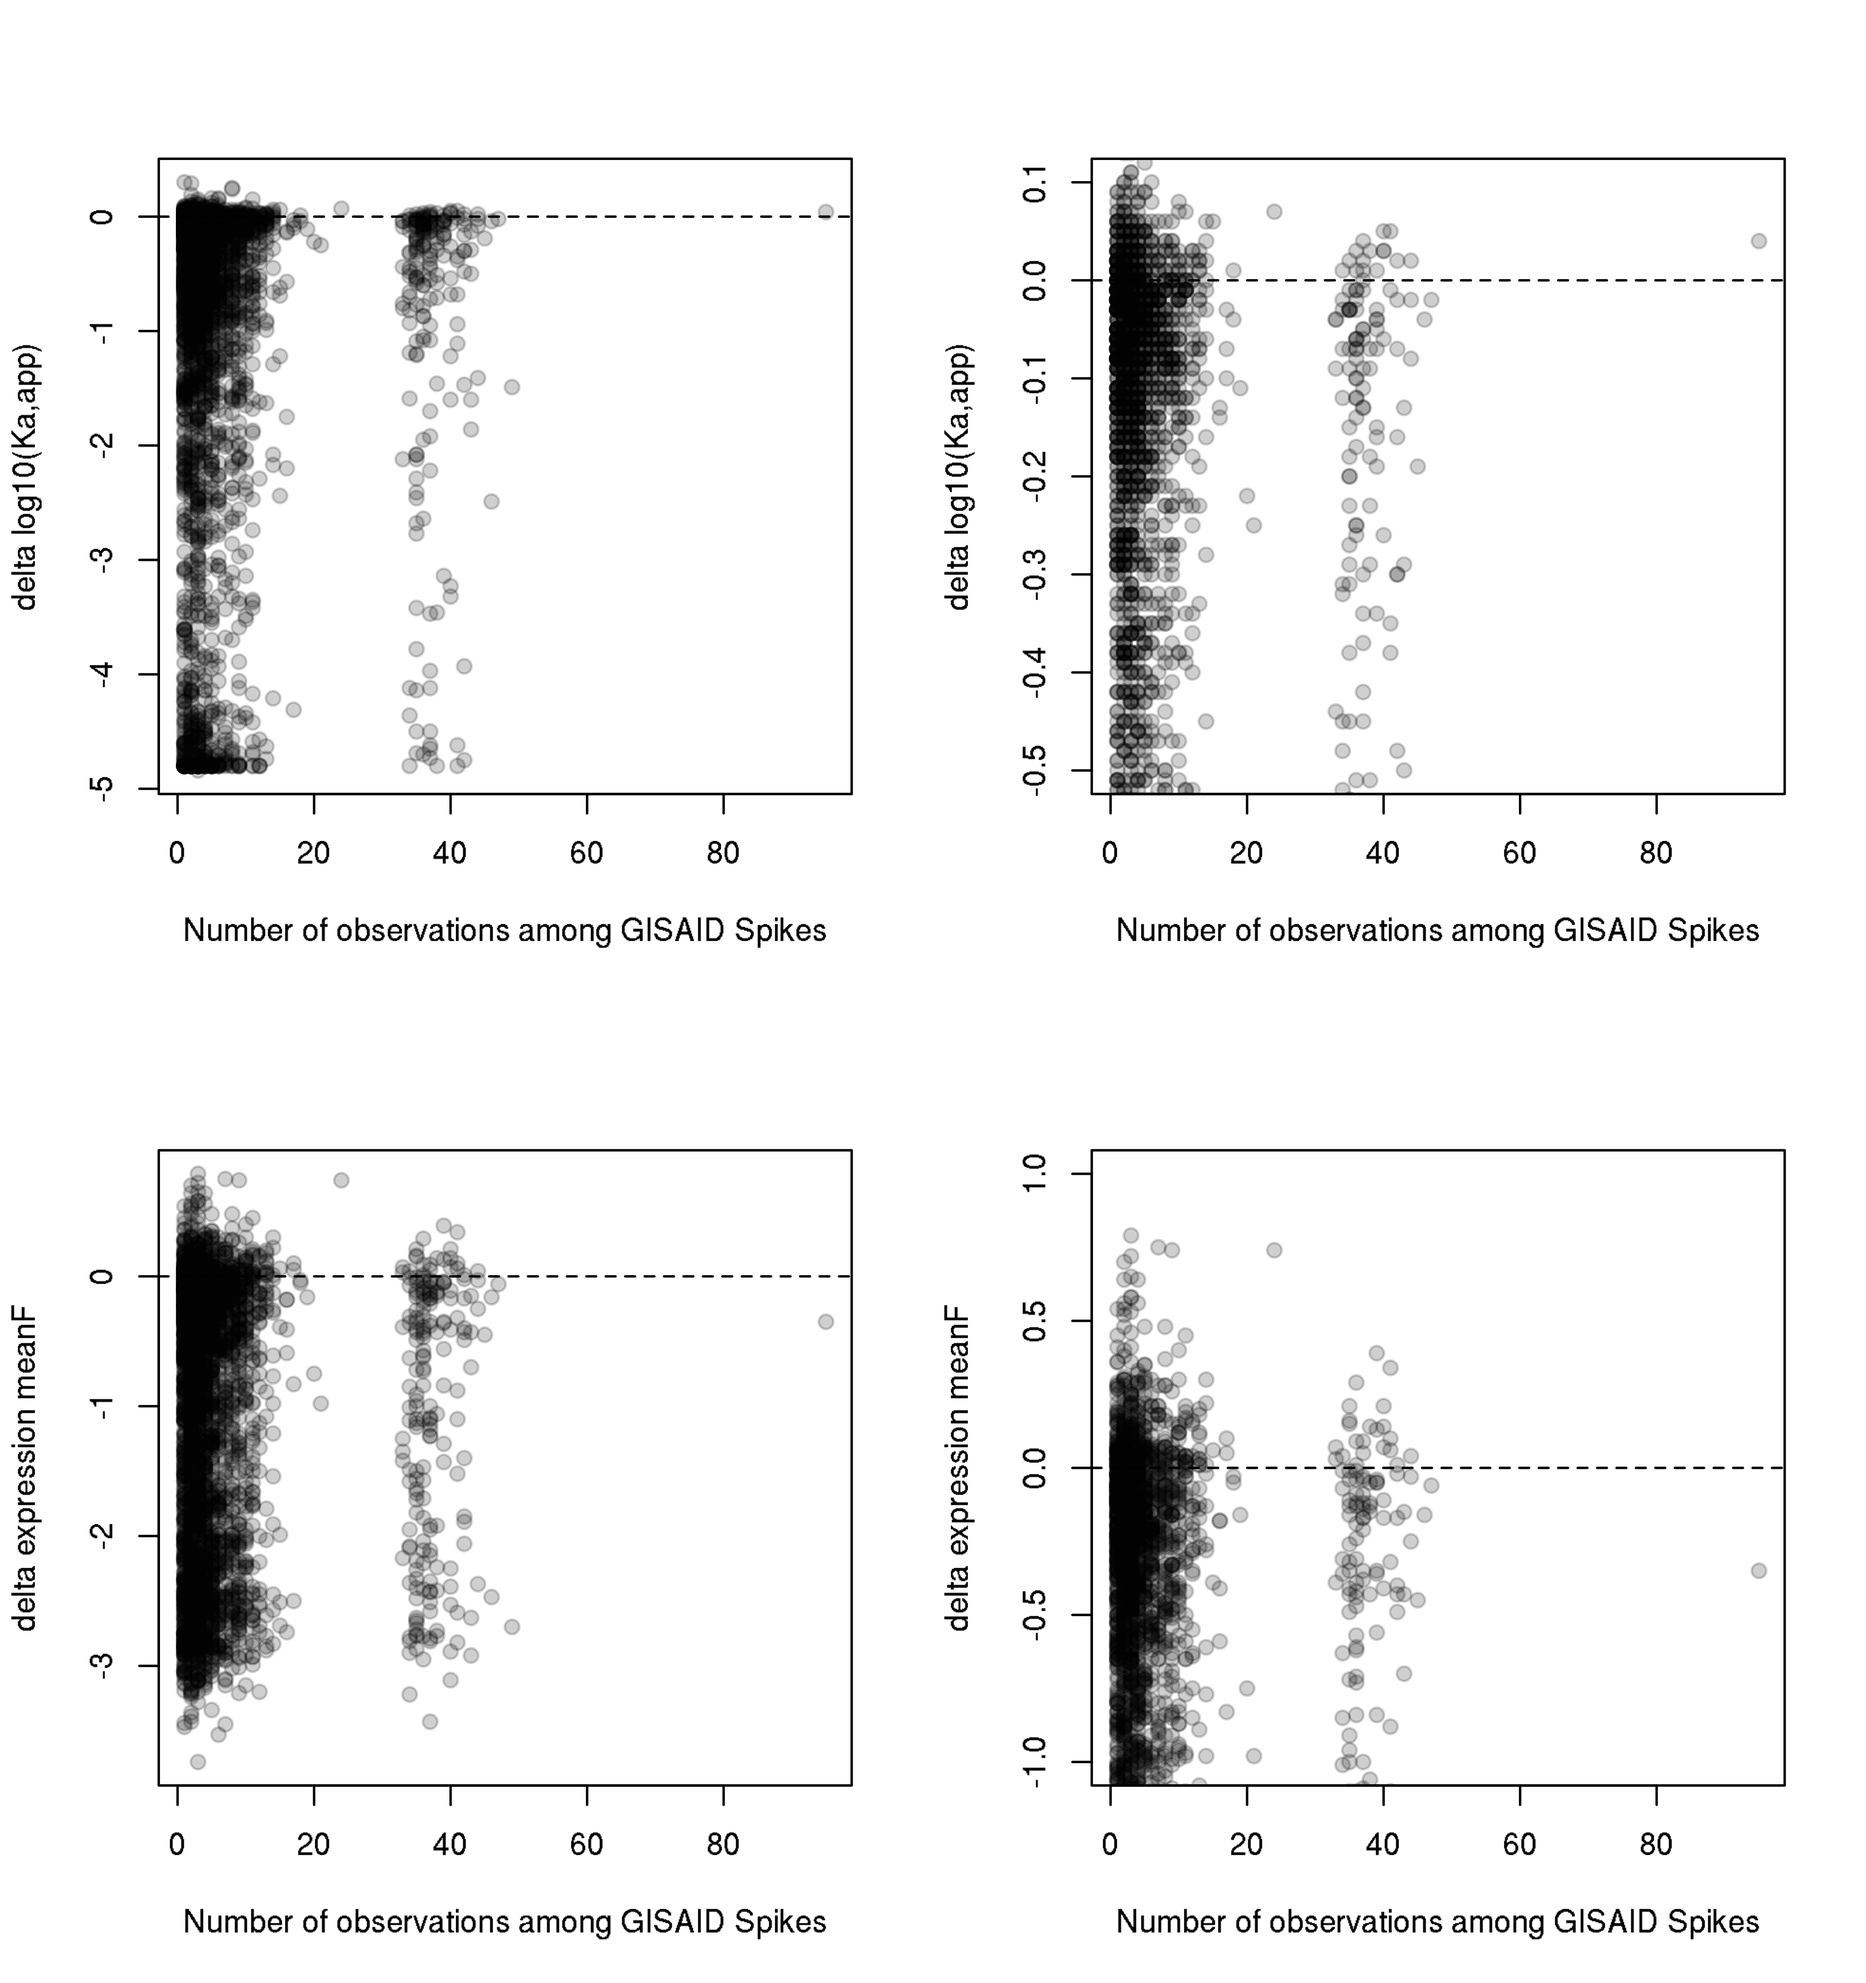
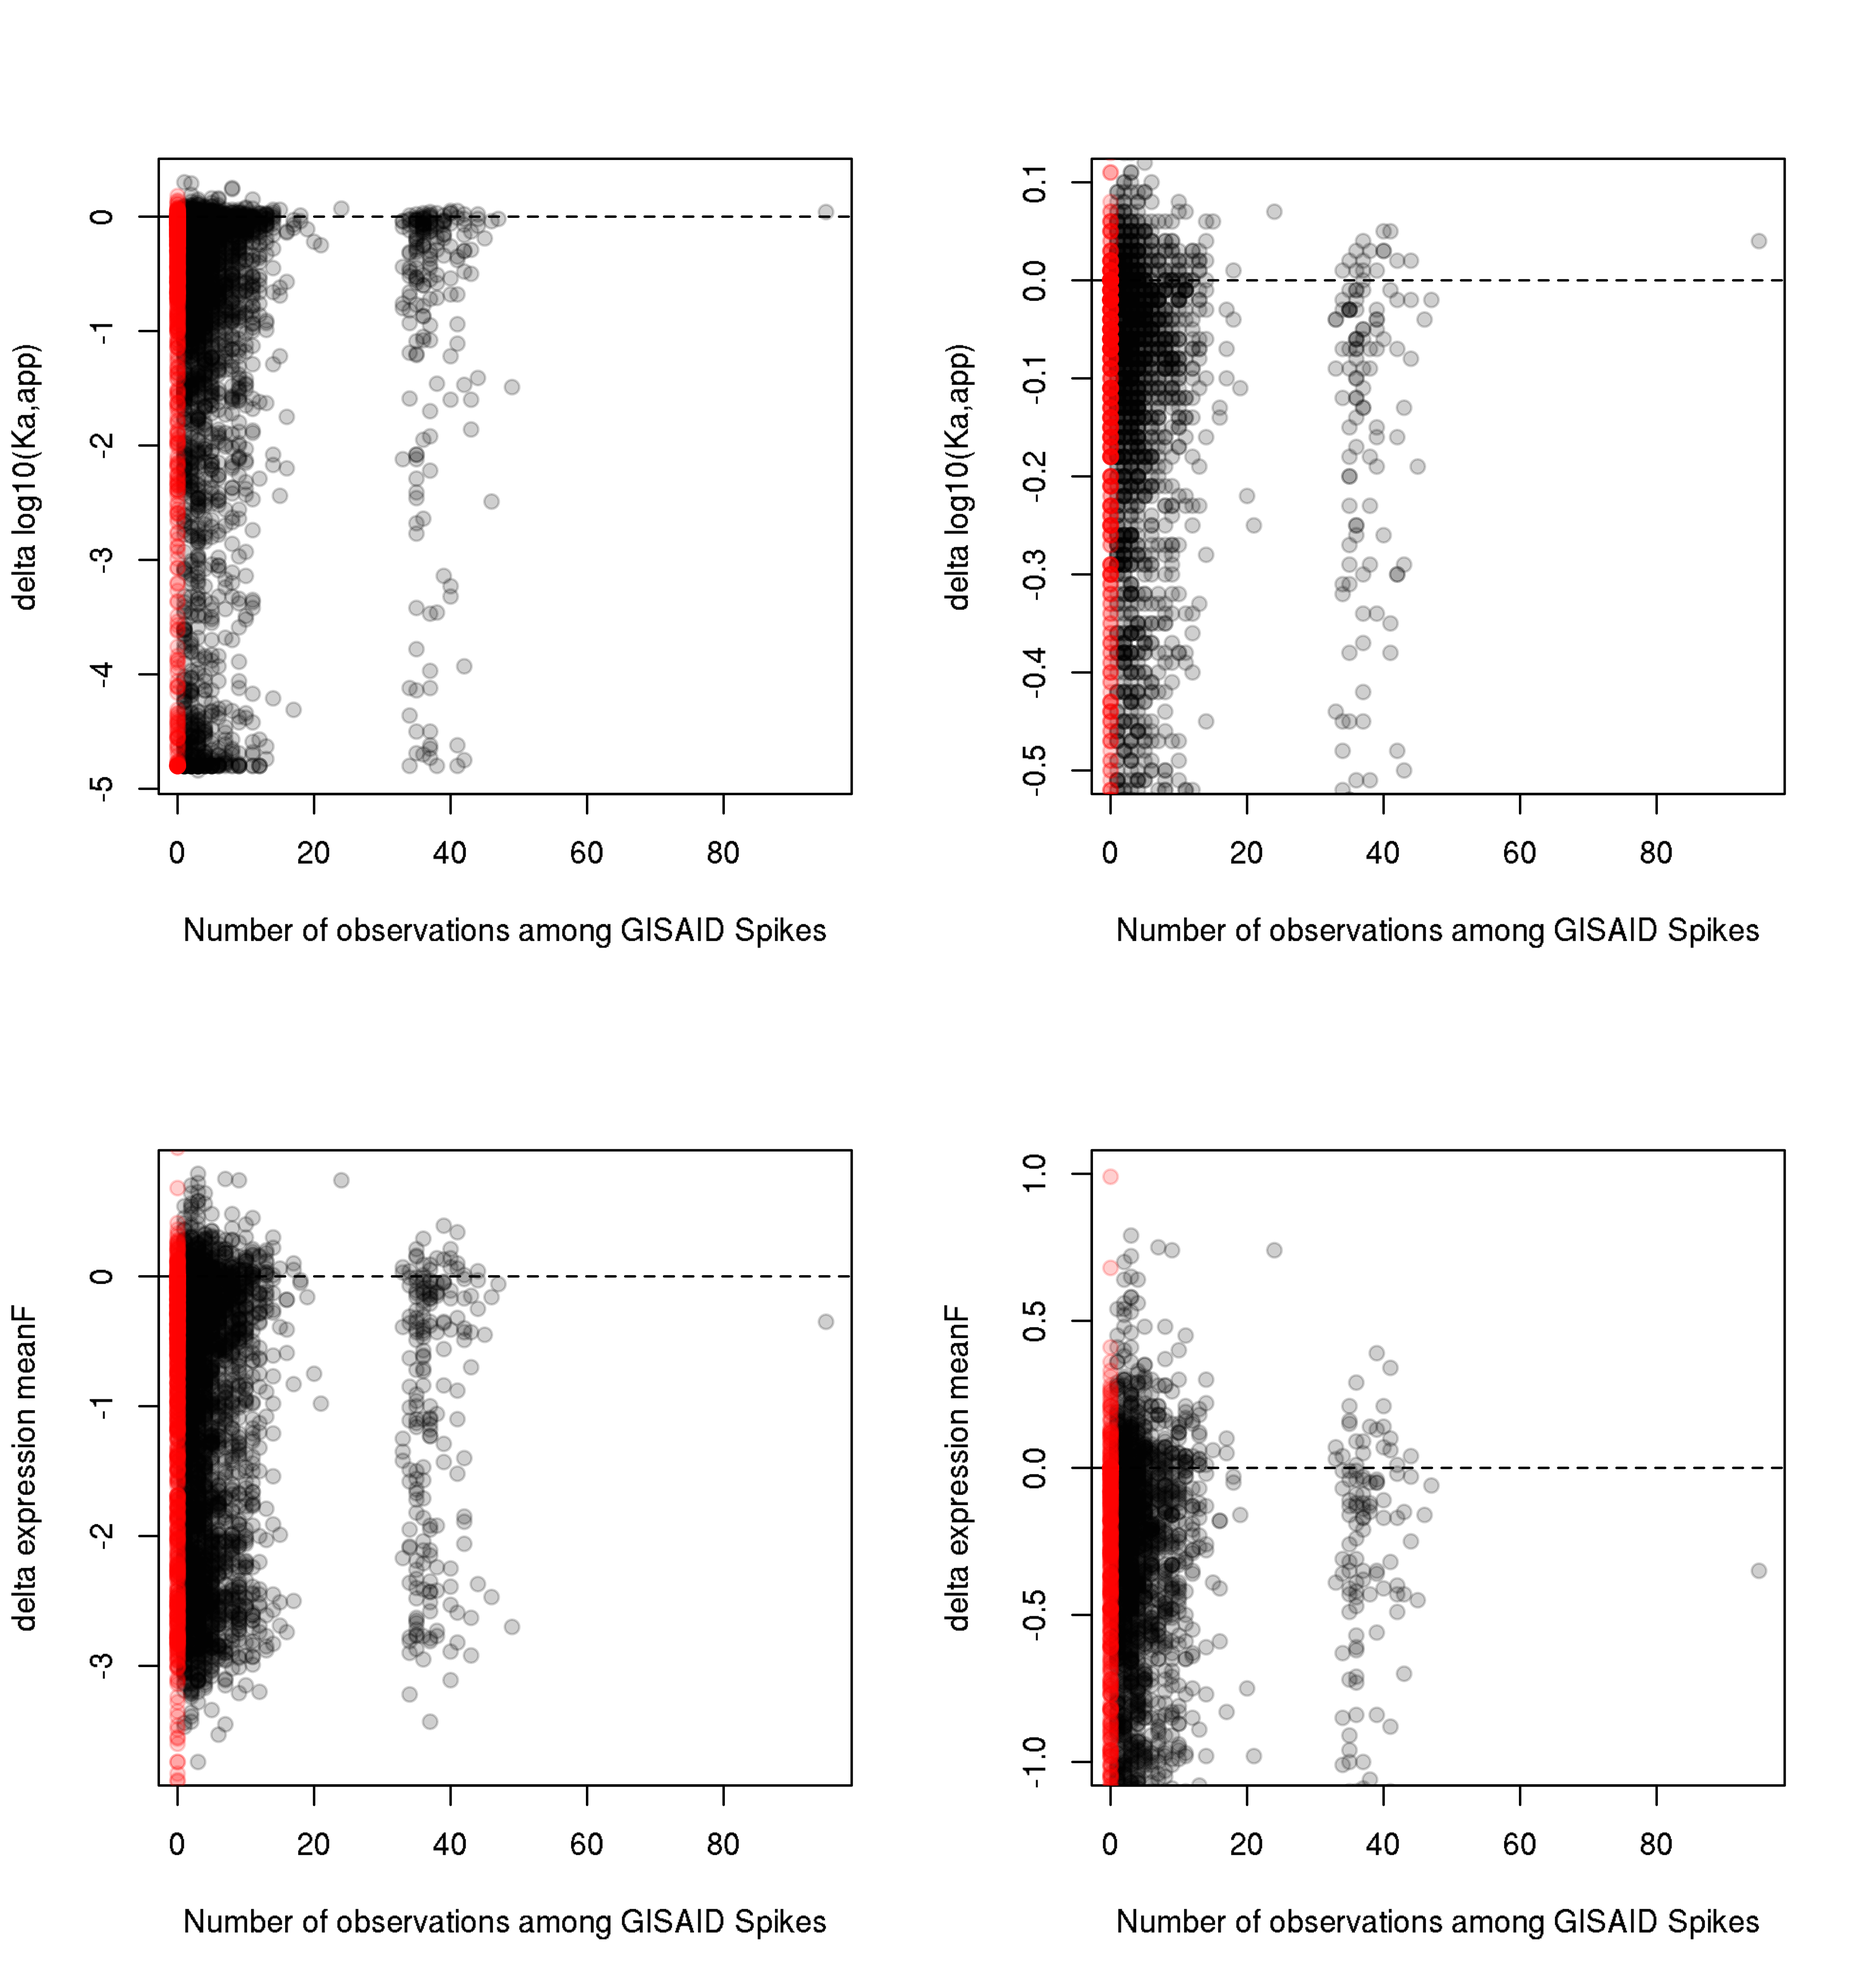
Add nobs 0 red dots on scatter

diff --git a/results/summary/circulating_variants.md b/results/summary/circulating_variants.md
@@ -217,11 +217,12 @@ statistics of sequencing errors could somehow explain these two modes?
 
 We plot each mutations delta-log<sub>10</sub>(*K*<sub>A,app</sub>)
 versus the number of times it is observed in the circulating Spike
-alignment. We can see that many of the mutations that are observed \<25
-times are highly deleterious, though some of the mutations with \~40
-observations are also highly deleterious. The plot on the right zooms in
-on the range closer to neutral, to better see any distribution \>0.
-There is no significant difference in median
+alignment, with nobs=0 points in red to distinguish from \>0. We can see
+that many of the mutations that are observed \<25 times are highly
+deleterious, though some of the mutations with \~40 observations are
+also highly deleterious. The plot on the right zooms in on the range
+closer to neutral, to better see any distribution \>0. There is no
+significant difference in median
 delta-log<sub>10</sub>(*K*<sub>A,app</sub>) for mutations that are
 observed more than 25 times versus those observed 1 to 25 times (P-value
 0.7278863, Wilcoxon rank-sum test). Similarly, there is no significant
